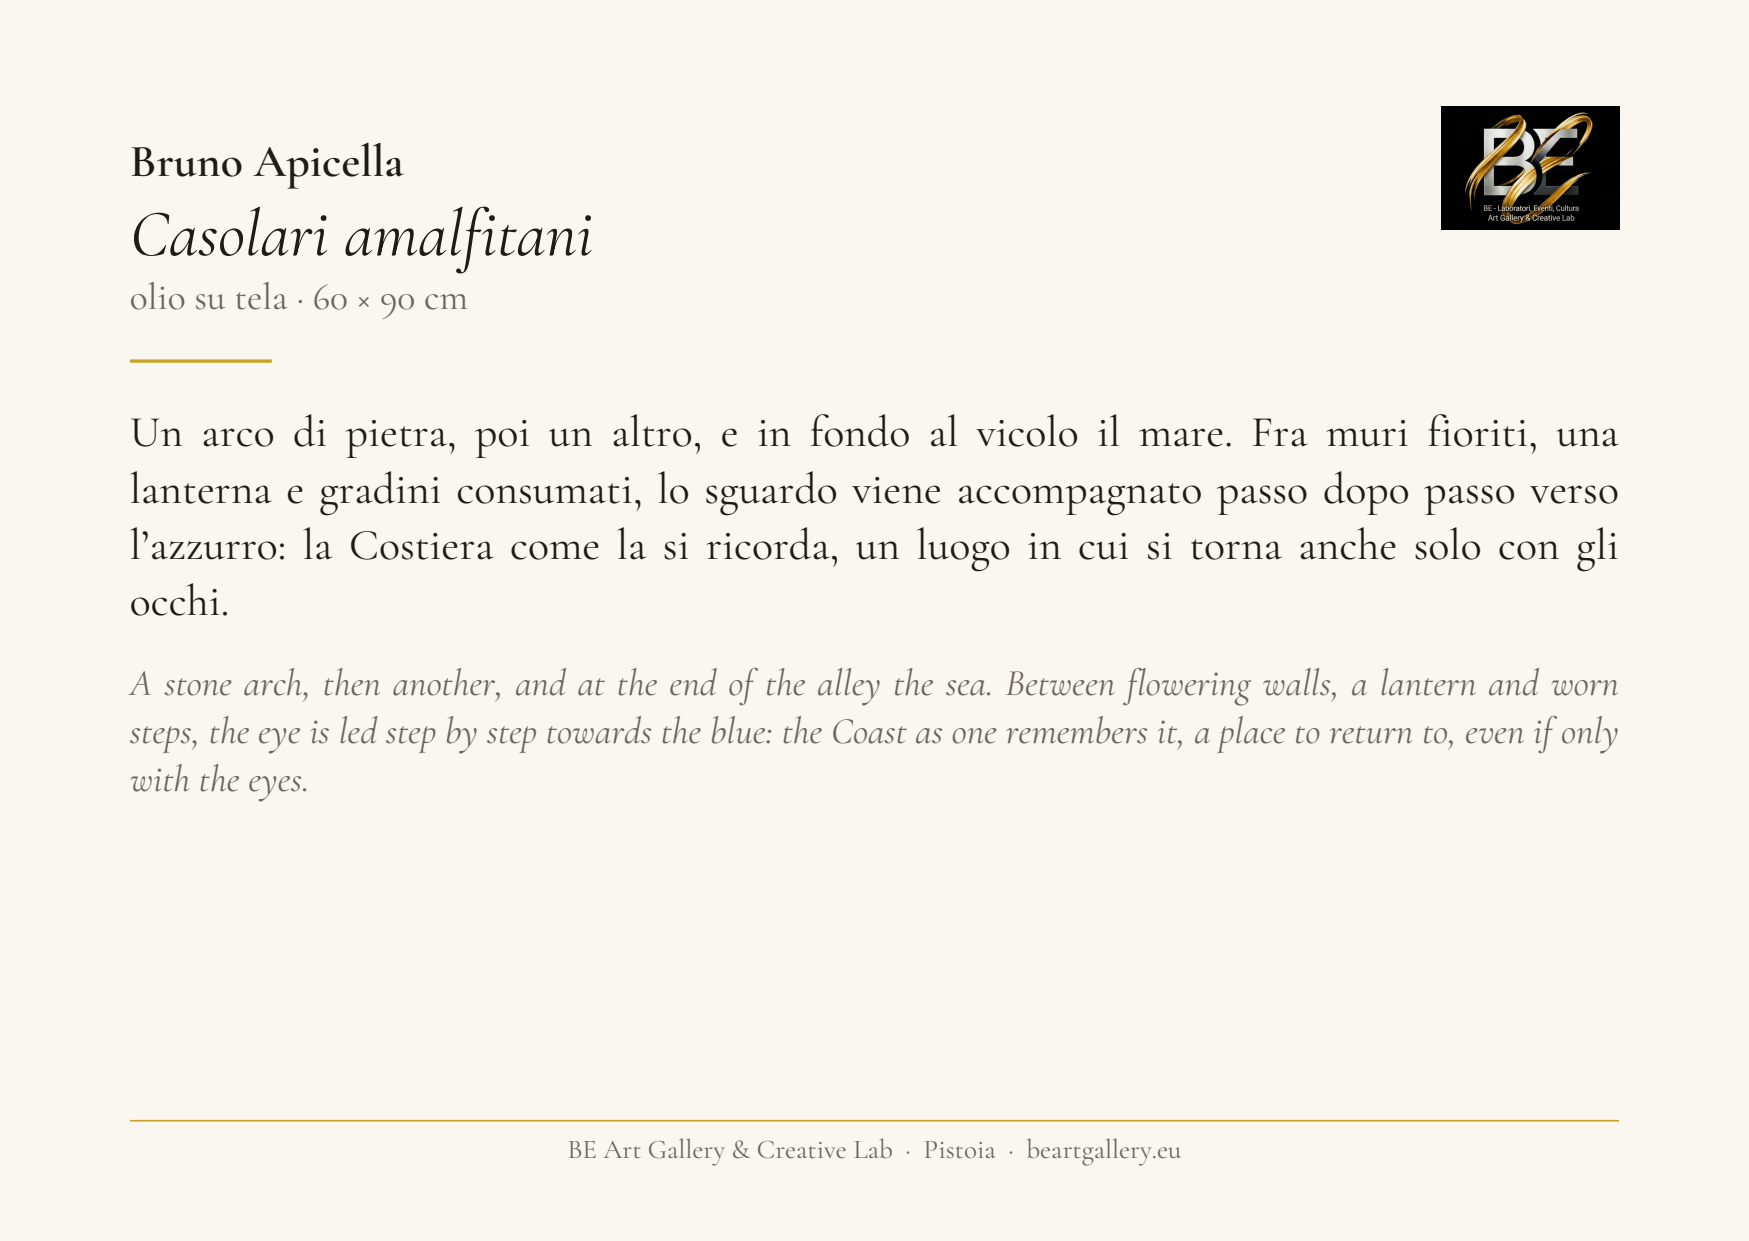
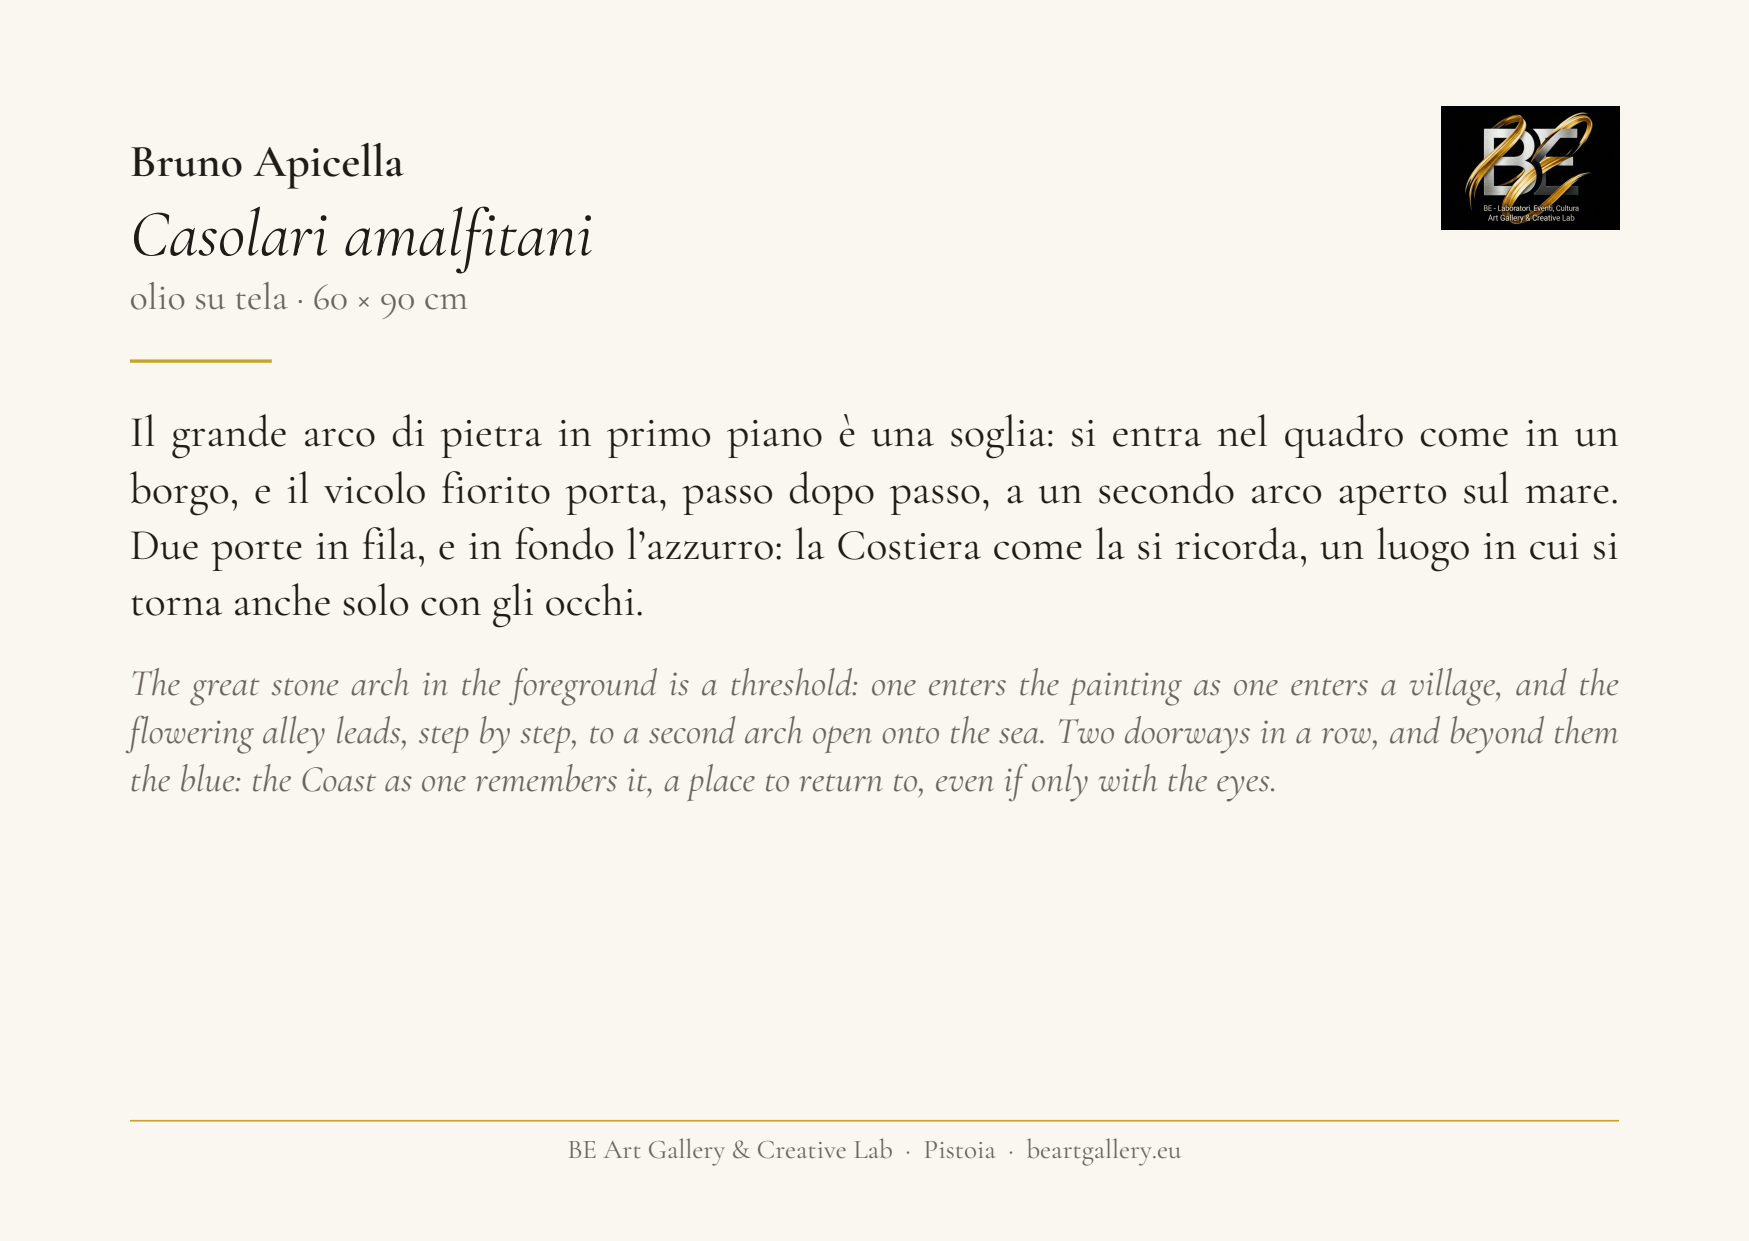
Riscrive la didascalia di Casolari amalfitani sull'arco d'ingresso
Claude-Session: https://claude.ai/code/session_0148bZgqQiCtdshijf84M1Qp

Changed region(s): [[0.0617, 0.3368, 0.9262, 0.5205], [0.0617, 0.5205, 0.9262, 0.643]]

diff --git a/testi-critici/artisti/bruno-apicella/analisi.md b/testi-critici/artisti/bruno-apicella/analisi.md
@@ -14,13 +14,15 @@
 
 ## Didascalia
 
-**Italiano** — _261 caratteri_
+**Italiano** — _295 caratteri_ · v2, costruita sull'arco d'ingresso come soglia, in dialogo con *Il giardino dei sogni* di Catia Massai
 
-> Un arco di pietra, poi un altro, e in fondo al vicolo il mare. Fra muri fioriti, una lanterna e gradini consumati, lo sguardo viene accompagnato passo dopo passo verso l'azzurro: la Costiera come la si ricorda, un luogo in cui si torna anche solo con gli occhi.
+> Il grande arco di pietra in primo piano è una soglia: si entra nel quadro come in un borgo, e il vicolo fiorito porta, passo dopo passo, a un secondo arco aperto sul mare. Due porte in fila, e in fondo l'azzurro: la Costiera come la si ricorda, un luogo in cui si torna anche solo con gli occhi.
 
 **English**
 
-> A stone arch, then another, and at the end of the alley the sea. Between flowering walls, a lantern and worn steps, the eye is led step by step towards the blue: the Coast as one remembers it, a place to return to, even if only with the eyes.
+> The great stone arch in the foreground is a threshold: one enters the painting as one enters a village, and the flowering alley leads, step by step, to a second arch open onto the sea. Two doorways in a row, and beyond them the blue: the Coast as one remembers it, a place to return to, even if only with the eyes.
+
+**v1** — Un arco di pietra, poi un altro, e in fondo al vicolo il mare. Fra muri fioriti, una lanterna e gradini consumati, lo sguardo viene accompagnato passo dopo passo verso l'azzurro: la Costiera come la si ricorda, un luogo in cui si torna anche solo con gli occhi.
 
 **Cosa ho visto** — formato verticale; un grande arco in conci di pietra in primo piano a destra, un secondo arco al centro che si apre su una terrazza con balaustra e il mare; muri in pietra intonacata, una finestra con tenda a righe rosse, una lanterna, vasi e cespugli fioriti, un selciato in salita con gradini. Pittura a olio corposa, di tocco minuto, tavolozza fredda di grigi e azzurri accesa da rossi e rosa nei fiori.
 

diff --git a/testi-critici/mostre/i-luoghi-dell-anima.md b/testi-critici/mostre/i-luoghi-dell-anima.md
@@ -25,6 +25,7 @@
 - il **cammino**: il viandante di Mazzanti, i sentieri di Massai, la donna che entra nel mare di Andreini
 - l'**acqua** come soglia: il mare, l'ampolla, la nebbia
 - la **soglia** e il **riparo**: l'angolo di casa, l'arco sul giardino, l'abbraccio all'albero
+- l'**arco d'ingresso**: *Il giardino dei sogni* di Massai e *Casolari amalfitani* di Apicella si aprono entrambi con un arco di pietra che fa da porta al quadro — da appendere vicini
 
 ## Da sapere prima di scrivere
 - l'elenco completo degli artisti
